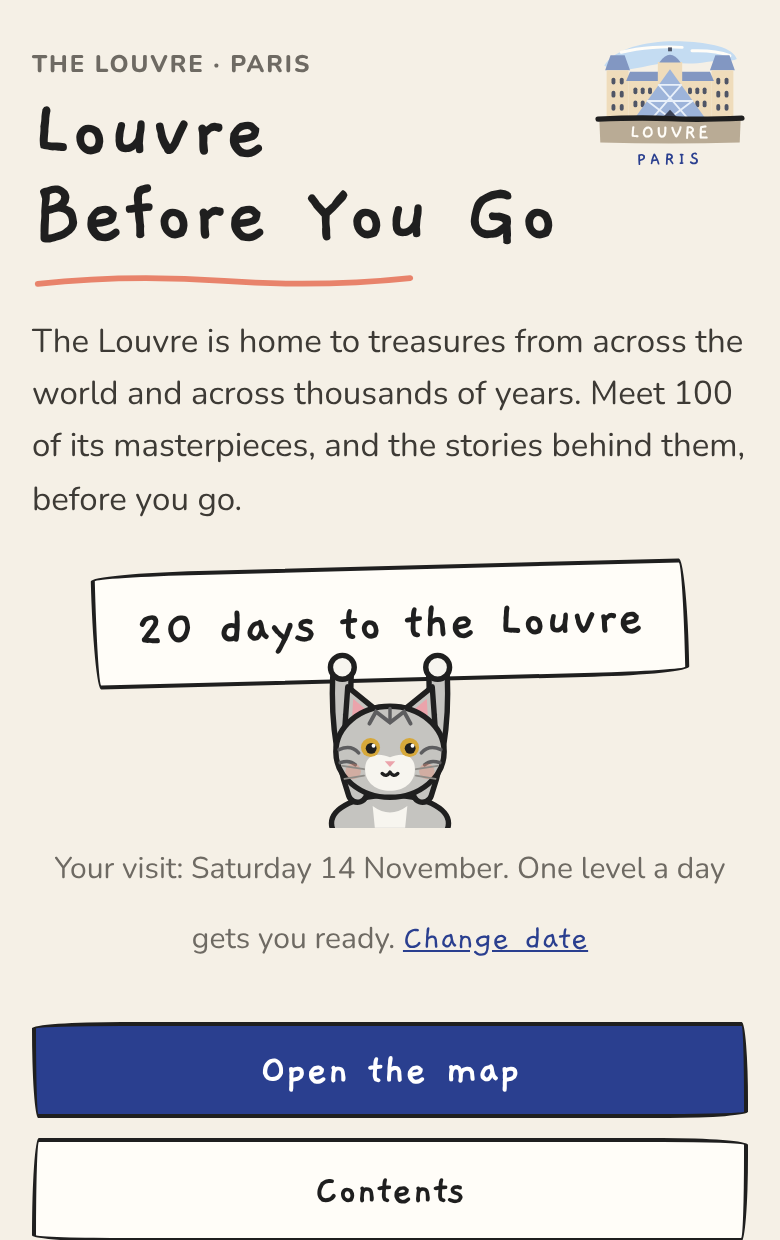
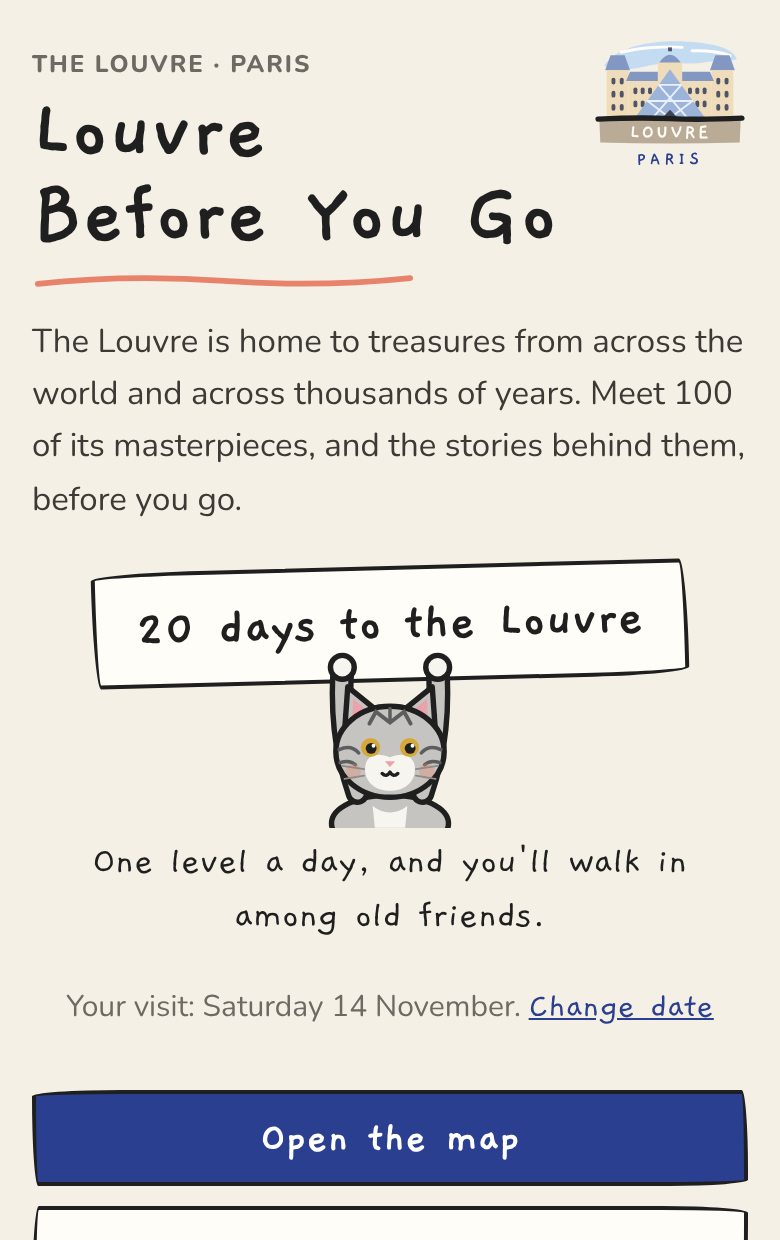
Baguette as the only progress, TT's lines, baguette and Lulu in close-ups
Product owner's follow-ups (PRODUCT.md first, decision-log entry): remove the
header segment bar and 'Question n / N' so the baguette, with its aria
progressbar label, is the only progress; TT says a short encouraging line per
countdown state (lib/tt-lines); close-up rounds get the baguette and the
close-up cleared page gets full-bellied Lulu (shared LuluFullCard).

Claude-Session: https://claude.ai/code/session_01PaAohou2zTKTEuzrV9m3xH

Changed region(s): [[0.0308, 0.7968, 0.9846, 1.0], [0.0615, 0.6742, 0.9231, 0.7661]]

diff --git a/src/components/ChallengePlayer.tsx b/src/components/ChallengePlayer.tsx
@@ -13,7 +13,7 @@ import { type CSSProperties, useEffect, useMemo, useRef, useState } from "react"
 import Artwork from "./Artwork";
 import Correction from "./Correction";
 import Locator from "./Locator";
-import ProgressBar from "./ProgressBar";
+import BaguetteBar from "./BaguetteBar";
 import Stage from "./Stage";
 import { CloseDoodle } from "@/doodles";
 import { moodFor, useScreenMotion } from "@/lib/motion";
@@ -84,10 +84,8 @@ export default function ChallengePlayer({ lesson, artwork, speakers, zoomImage }
   const start = pair[qIndex];
   const zoom = useMemo(() => (lesson.nodes[start] as StoryNode).zoom!, [lesson, start]);
   const node = lesson.nodes[nodeId];
-  const onQuestion = node.type === "question";
   const isMerge = nodeId === `${start}m`;
   const lastQuestion = qIndex === total - 1;
-  const current = Math.min(answered + (onQuestion ? 1 : 0), total) || 1;
   const question = lesson.nodes[`${start}q`];
   const sources = question?.type === "question" ? (question.sources ?? []) : [];
   const narrator = lesson.narrator ? speakers[lesson.narrator] : undefined;
@@ -170,9 +168,6 @@ export default function ChallengePlayer({ lesson, artwork, speakers, zoomImage }
         >
           <CloseDoodle className="h-6 w-6" />
         </Link>
-        <div className={`flex flex-1 ${ready ? "" : "invisible"}`}>
-          <ProgressBar current={current} answered={answered} total={total} filled={motion.filled} />
-        </div>
       </header>
 
       {resumed && (
@@ -261,7 +256,7 @@ export default function ChallengePlayer({ lesson, artwork, speakers, zoomImage }
               </div>
             )}
             {/* Kept in view on a phone, as in the level player. Layout only. */}
-            <div className="sticky bottom-0 -mx-4 mt-auto flex justify-end bg-paper px-4 pt-2 pb-[max(0.75rem,env(safe-area-inset-bottom))]">
+            <div className="sticky bottom-[calc(3.5rem+env(safe-area-inset-bottom))] -mx-4 mt-auto flex justify-end bg-paper px-4 pt-2 pb-2">
               <button type="button" onClick={() => go(node.next)} className="btn-primary">
                 {node.next ? "Continue →" : lastQuestion ? "Finish round" : "Next close-up →"}
               </button>
@@ -269,6 +264,11 @@ export default function ChallengePlayer({ lesson, artwork, speakers, zoomImage }
           </>
         )}
       </section>
+
+      {/* The baguette progress bar, as in the level player (PRODUCT.md "Visit countdown and baguette progress"). */}
+      <div className={`sticky bottom-0 z-10 -mx-4 -mb-6 bg-paper px-4 pb-[env(safe-area-inset-bottom)] ${ready ? "" : "invisible"}`}>
+        <BaguetteBar answered={answered} total={total} chomp={motion.filled !== undefined} />
+      </div>
     </main>
   );
 }

diff --git a/src/app/lesson/[id]/done/page.tsx b/src/app/lesson/[id]/done/page.tsx
@@ -1,12 +1,11 @@
 import type { Metadata } from "next";
 import { notFound } from "next/navigation";
 import MuseumLabel from "@/components/MuseumLabel";
+import LuluFullCard from "@/components/LuluFullCard";
 import ClearedNext, { type ChapterLevels } from "@/components/ClearedNext";
 import type { CSSProperties } from "react";
 import { StarDoodle, UnderlineDoodle } from "@/doodles";
 import { Head } from "@/doodles/avatars";
-import { LuluFull } from "@/doodles/cats";
-import { fullCatLine } from "@/lib/cat-lines";
 import { getBook } from "@/lib/catalogue";
 import { getRoundForLevel } from "@/lib/challenge";
 import { getLevel, getLevels, museumLink, narratorOf, nextTrailLevel } from "@/lib/content";
@@ -62,13 +61,7 @@ export default async function DonePage({ params }: Params) {
       </div>
 
       {/* Lulu, the baguette cat, belly round (PRODUCT.md "Baguette progress"): thanks, never a fact. */}
-      <figure className="m-full flex items-center gap-3">
-        <LuluFull title="Lulu the Siamese cat, belly round and full" className="h-auto w-[92px] shrink-0" />
-        <figcaption className="wobbly relative flex-1 border-2 border-ink bg-mat px-4 py-2.5 font-hand text-xl leading-snug">
-          <span className="block text-base text-muted">Lulu says</span>
-          {fullCatLine(level.lesson.id)}
-        </figcaption>
-      </figure>
+      <LuluFullCard pickBy={level.lesson.id} />
 
       <section className="m-takeaway wobbly-alt border-[2.5px] border-ink bg-mat px-5 py-4">
         <h2 className="font-hand text-2xl font-bold">One thing to remember today</h2>

diff --git a/src/components/VisitCountdown.tsx b/src/components/VisitCountdown.tsx
@@ -5,10 +5,12 @@
 // to the visit day the player picked. The picker only takes a future date.
 // No day yet: the sign asks for one. The day itself: "Louvre day!". A day
 // that has passed: a gentle line and the picker, to choose the next visit.
+// Under the sign, TT says one short line for the state (lib/tt-lines).
 // Stored only in localStorage (lib/visit); nothing renders until it is read.
 
 import { useEffect, useId, useState } from "react";
 import { TTKitten } from "@/doodles/cats";
+import { ttLine } from "@/lib/tt-lines";
 import { daysUntil, formatVisit, getVisit, setVisit, tomorrowIso } from "@/lib/visit";
 
 type State = { visit: string | null; editing: boolean };
@@ -54,11 +56,15 @@ export default function VisitCountdown() {
         {sign}
       </p>
       <TTKitten title="TT the kitten holds up the countdown sign" className="relative z-20 -mt-4 h-auto w-[104px]" />
+      <p className="mt-1 max-w-[300px] text-center font-hand text-xl leading-snug">
+        <span className="sr-only">TT says: </span>
+        {ttLine(days === null ? "none" : passed ? "passed" : days === 0 ? "today" : "days", days ?? 0)}
+      </p>
 
       <div className="mt-2 w-full text-center">
         {!picking && state.visit && (
           <p className="text-[15px] text-muted">
-            {days === 0 ? "Enjoy every room." : <>Your visit: {formatVisit(state.visit)}. One level a day gets you ready.</>}{" "}
+            Your visit: {formatVisit(state.visit)}.{" "}
             <button
               type="button"
               onClick={() => {

diff --git a/src/lib/tt-lines.ts b/src/lib/tt-lines.ts
@@ -1,0 +1,24 @@
+// TT's line under the countdown sign (PRODUCT.md "Visit countdown and baguette
+// progress"): short, warm encouragement for each state of the countdown, with
+// no art facts. With a day set, the line turns over with the count, so a
+// returning player sees a new one most days.
+
+export type CountdownState = "none" | "days" | "today" | "passed";
+
+export const TT_LINES: Record<CountdownState, readonly string[]> = {
+  none: ["Pick a day and I'll count down with you!", "My paws are ready to hold the sign. Just tell me when!"],
+  days: [
+    "One level a day, and you'll walk in among old friends.",
+    "Every story you learn brings the Louvre a little closer.",
+    "I'm counting on my paws. You're doing great!",
+    "A small story today, a big trip soon.",
+    "Come back tomorrow and I'll flip the sign for you.",
+  ],
+  today: ["Today's the day! Go say hello to your new old friends.", "Have the best day. I'll wait right here!"],
+  passed: ["Welcome back! I hope it was wonderful.", "I missed you! Where shall we count down to next?"],
+};
+
+export function ttLine(state: CountdownState, days = 0): string {
+  const pool = TT_LINES[state];
+  return pool[Math.abs(days) % pool.length];
+}

diff --git a/src/components/LessonPlayer.tsx b/src/components/LessonPlayer.tsx
@@ -14,7 +14,6 @@ import Artwork from "./Artwork";
 import Correction from "./Correction";
 import MuseumLabel from "./MuseumLabel";
 import BaguetteBar from "./BaguetteBar";
-import ProgressBar from "./ProgressBar";
 import Stage, { stageSpeakerId } from "./Stage";
 import { CloseDoodle } from "@/doodles";
 import { moodFor, useScreenMotion } from "@/lib/motion";
@@ -80,8 +79,6 @@ export default function LessonPlayer({ lesson, artwork, speakers, imageAvailable
   }
 
   const node = lesson.nodes[nodeId];
-  const onQuestion = node.type === "question";
-  const current = Math.min(answered + (onQuestion ? 1 : 0), questionCount) || 1;
 
   // Bring the new passage into view on small screens.
   useEffect(() => {
@@ -133,9 +130,6 @@ export default function LessonPlayer({ lesson, artwork, speakers, imageAvailable
         >
           <CloseDoodle className="h-6 w-6" />
         </Link>
-        <div className={`flex flex-1 ${ready ? "" : "invisible"}`}>
-          <ProgressBar current={current} answered={answered} total={questionCount} filled={motion.filled} />
-        </div>
       </header>
 
       {resumed && (

diff --git a/src/components/LuluFullCard.tsx b/src/components/LuluFullCard.tsx
@@ -1,0 +1,18 @@
+// Lulu, full-bellied, with her thank-you line (PRODUCT.md "Visit countdown and
+// baguette progress"): on the level-cleared and close-up-cleared pages. The
+// line is picked by id from a fixed pool of warm thanks with no art facts.
+
+import { LuluFull } from "@/doodles/cats";
+import { fullCatLine } from "@/lib/cat-lines";
+
+export default function LuluFullCard({ pickBy }: { pickBy: string }) {
+  return (
+    <figure className="m-full flex items-center gap-3">
+      <LuluFull title="Lulu the Siamese cat, belly round and full" className="h-auto w-[92px] shrink-0" />
+      <figcaption className="wobbly relative flex-1 border-2 border-ink bg-mat px-4 py-2.5 font-hand text-xl leading-snug">
+        <span className="block text-base text-muted">Lulu says</span>
+        {fullCatLine(pickBy)}
+      </figcaption>
+    </figure>
+  );
+}

diff --git a/src/components/RoundCleared.tsx b/src/components/RoundCleared.tsx
@@ -8,6 +8,7 @@
 
 import Link from "next/link";
 import { type CSSProperties, useEffect, useState } from "react";
+import LuluFullCard from "./LuluFullCard";
 import MuseumLabel from "./MuseumLabel";
 import { StarDoodle, UnderlineDoodle } from "@/doodles";
 import { Head } from "@/doodles/avatars";
@@ -58,6 +59,9 @@ export default function RoundCleared({ id, pool, roundSize, merges, artwork, mus
         <h1 className="font-hand text-[2.4rem] font-bold leading-none">Close-up cleared!</h1>
         <UnderlineDoodle className="mx-auto mt-1 h-3 w-40" draw />
       </div>
+
+      {/* Lulu, full after the close-up's baguette. */}
+      <LuluFullCard pickBy={`close-up:${id}`} />
 
       {/* The merge lines arrive with the card. */}
       <section className={`wobbly-alt border-[2.5px] border-ink bg-mat px-5 py-4 ${pair ? "m-takeaway" : "invisible"}`}>
